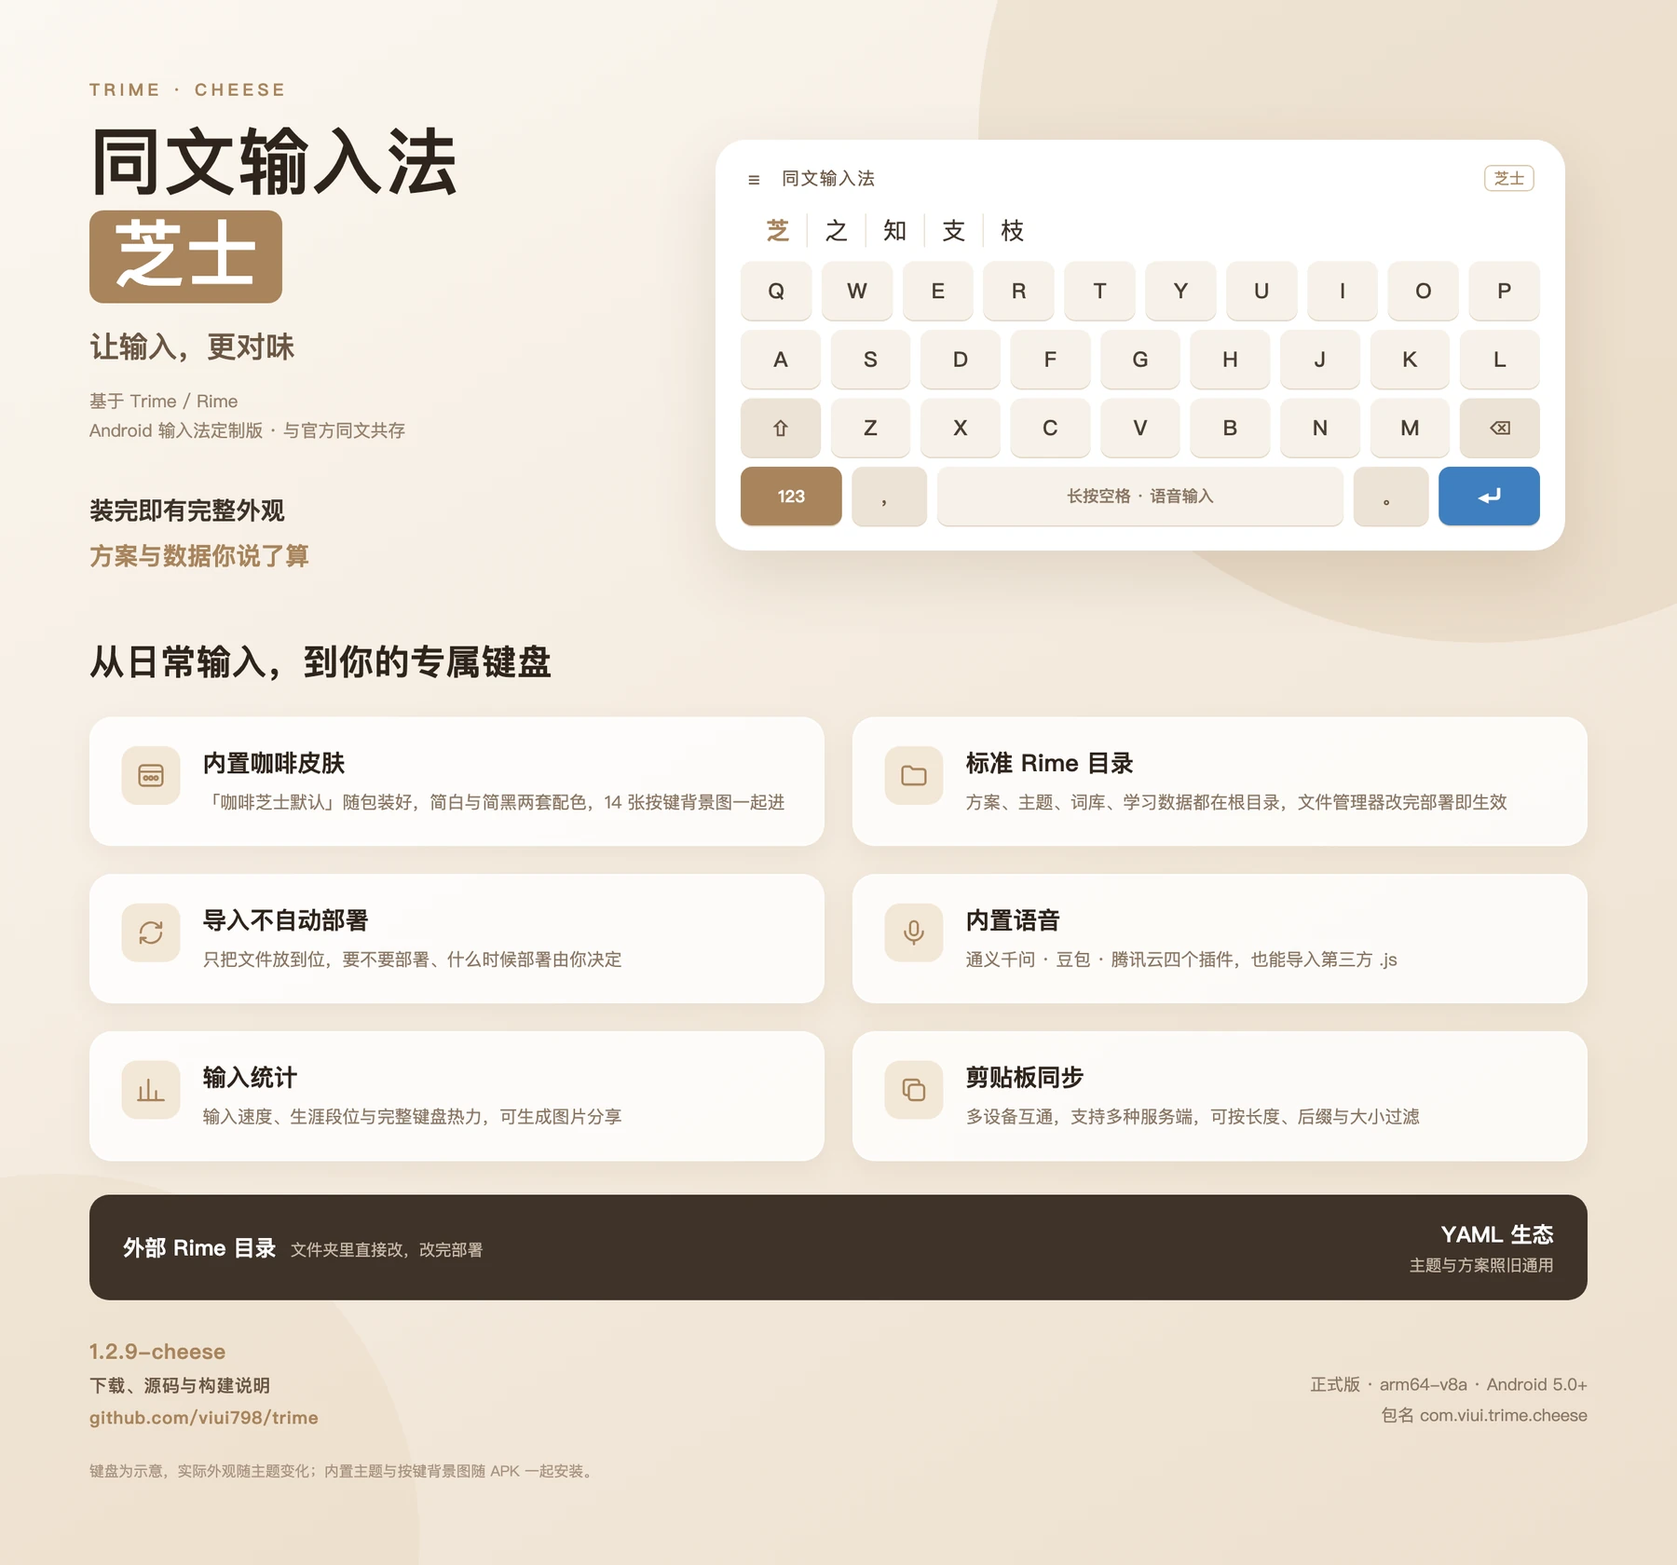
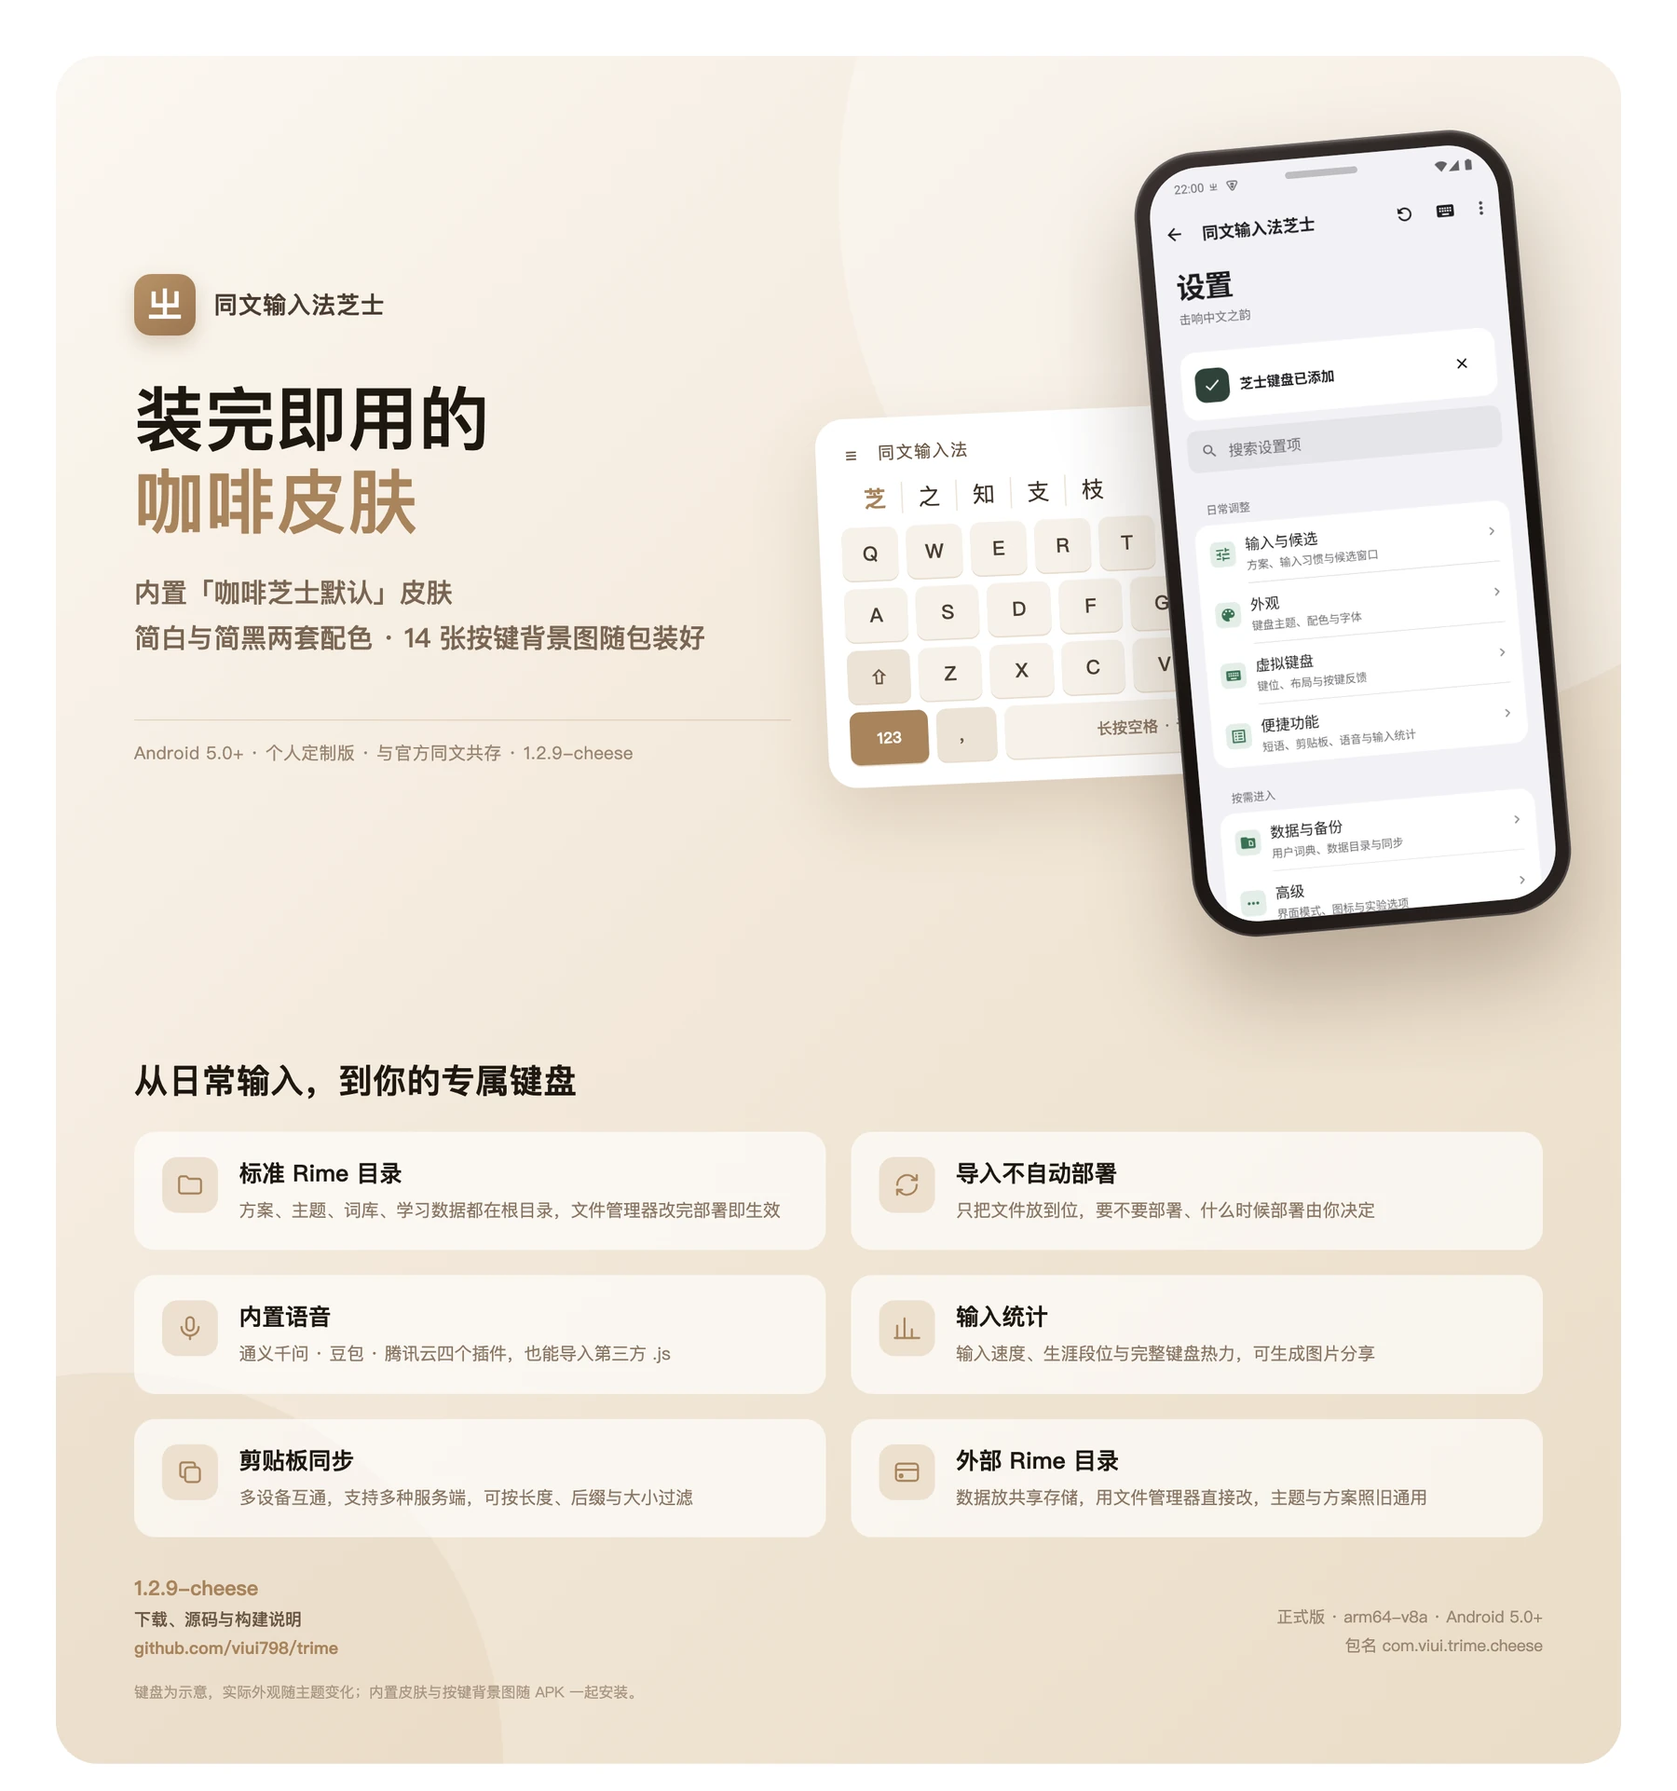
docs(readme): 首图改为带手机样机的海报，排版对齐参考图
结构照参考图重排：整块大圆角卡片（浅咖啡渐变）+ 左文右设备 + 下方功能卡片。

- 左栏：㞢 方形标 + 产品名 → 两行大标题「装完即用的 / 咖啡皮肤」→
  两行副标题（皮肤名 + 两套配色 + 14 张背景图）→ 细分隔线 + 环境小字
- 右栏：键盘示意卡在下、手机样机（home.png 真截图）在上，手机压在键盘右侧
  形成叠加层次；样机为纯 CSS 深色边框 + 高光 + 投影，旋转 -5°
- 六张功能卡片改为更轻的样式（半透明白、无描边、淡色图标底）
- 配色沿用咖啡系 #A8845C / #33291F，标题用深墨 #1E1811
- 导出 hero.webp 1800×1922（140 KB）

渲染方式：headless Chrome 截图（--no-sandbox 必须带），PIL 自动裁掉底部空白。

diff --git a/docs/images/hero.html b/docs/images/hero.html
@@ -5,143 +5,177 @@
 <style>
   * { margin: 0; padding: 0; box-sizing: border-box; }
   body {
-    width: 1200px; height: 1120px;
+    width: 1200px;
     font-family: -apple-system, "PingFang SC", "Hiragino Sans GB", "Microsoft YaHei", sans-serif;
-    background: linear-gradient(150deg, #FBF7F1 0%, #F3E9DC 55%, #EDDFCE 100%);
-    position: relative; overflow: hidden;
+    background: #FFFFFF;
+    padding: 40px;
   }
-  .blob-a {
-    position: absolute; width: 720px; height: 720px; border-radius: 50%;
-    background: rgba(214, 189, 158, 0.28); right: -220px; top: -260px;
+  .stage {
+    position: relative; width: 1120px; border-radius: 30px; overflow: hidden;
+    background: linear-gradient(135deg, #FBF7F1 0%, #F2E7D8 50%, #EADCC7 100%);
+    padding: 52px 56px 44px;
   }
-  .blob-b {
-    position: absolute; width: 520px; height: 520px; border-radius: 50%;
-    background: rgba(226, 205, 178, 0.22); left: -220px; bottom: -240px;
+  .stage .blob-a {
+    position: absolute; width: 760px; height: 760px; border-radius: 50%;
+    background: rgba(255,255,255,0.34); right: -200px; top: -280px;
   }
-  .wrap { position: relative; padding: 56px 64px 0; }
+  .stage .blob-b {
+    position: absolute; width: 560px; height: 560px; border-radius: 50%;
+    background: rgba(200,170,135,0.13); left: -240px; bottom: -280px;
+  }
 
-  .tag { font-size: 12px; letter-spacing: 3px; color: #A8845C; font-weight: 600; }
-  h1 { font-size: 52px; line-height: 1.12; color: #2E241C; font-weight: 800; margin-top: 14px; letter-spacing: 1px; }
-  .brand {
-    display: inline-block; background: #A8845C; color: #fff;
-    padding: 2px 16px 6px; border-radius: 10px; margin-top: 6px;
-  }
-  .lead { font-size: 21px; color: #6B5744; margin-top: 16px; font-weight: 500; }
-  .meta { font-size: 12.5px; color: #96826E; margin-top: 14px; line-height: 1.7; }
-  .slogans { margin-top: 34px; }
-  .slogans div { font-size: 17.5px; font-weight: 700; color: #3E332A; margin-top: 8px; }
-  .slogans div + div { color: #A8845C; }
+  /* 顶部：左文右设备 */
+  .hero { position: relative; display: flex; }
+  .copy { width: 470px; padding-top: 104px; position: relative; z-index: 3; }
 
-  /* 键盘示意 */
-  .kb-card {
-    position: absolute; left: 512px; top: 100px; width: 608px;
-    background: #fff; border-radius: 22px; padding: 16px 18px 18px;
-    box-shadow: 0 18px 44px rgba(120, 92, 62, 0.16), 0 2px 0 rgba(255,255,255,0.8) inset;
-  }
-  .kb-bar { display: flex; align-items: center; justify-content: space-between; padding: 2px 4px 12px; }
-  .kb-bar .t { font-size: 12.5px; color: #6B5744; letter-spacing: 1px; }
-  .kb-bar .badge { font-size: 11px; color: #A8845C; border: 1px solid #DFCBAF; border-radius: 5px; padding: 1px 6px; }
-  .row { display: flex; gap: 7px; margin-bottom: 7px; }
-  .key {
-    flex: 1; height: 42px; border-radius: 8px; background: #F6F1E9;
+  .brandline { display: flex; align-items: center; gap: 13px; }
+  .logo {
+    width: 44px; height: 44px; border-radius: 12px;
+    background: linear-gradient(140deg, #B89368, #9A7550);
     display: flex; align-items: center; justify-content: center;
-    font-size: 15px; color: #4A3E33; font-weight: 500;
-    box-shadow: 0 1px 0 #E4D8C7;
+    color: #fff; font-size: 25px; font-weight: 700;
+    box-shadow: 0 6px 14px rgba(140, 108, 72, 0.28);
   }
-  .key.fn { background: #EDE3D6; font-size: 13px; color: #6B5744; }
-  .key.num { flex: 1.35; background: #A8845C; color: #fff; font-size: 12px; font-weight: 600; }
-  .key.space { flex: 5.4; font-size: 11.5px; color: #8A7765; }
-  .key.enter { flex: 1.35; background: #3F7FBF; color: #fff; }
-  .cands { display: flex; gap: 0; padding: 4px 6px 10px; font-size: 17px; color: #3E332A; }
-  .cands span { padding: 0 12px; border-right: 1px solid #EEE4D6; }
+  .brandline .nm { font-size: 17px; font-weight: 600; color: #4A3D31; letter-spacing: 0.5px; }
+
+  h1 { font-size: 50px; line-height: 1.18; color: #1E1811; font-weight: 800; margin-top: 30px; letter-spacing: 1px; }
+  h1 em { font-style: normal; color: #A8845C; }
+
+  .sub { font-size: 19px; color: #7A6653; margin-top: 20px; line-height: 1.7; font-weight: 500; }
+
+  .rule { width: 100%; height: 1px; background: rgba(160, 132, 100, 0.22); margin-top: 42px; }
+  .meta { font-size: 12.5px; color: #9A8672; margin-top: 14px; letter-spacing: 0.3px; }
+
+  /* 右侧设备 */
+  .devices { position: relative; flex: 1; height: 646px; }
+
+  .kb-card {
+    position: absolute; left: 22px; top: 198px; width: 486px;
+    background: #fff; border-radius: 20px; padding: 14px 16px 16px;
+    box-shadow: 0 22px 48px rgba(120, 92, 62, 0.18);
+    transform: rotate(-2.5deg);
+    z-index: 1;
+  }
+  .kb-bar { display: flex; align-items: center; justify-content: space-between; padding: 2px 4px 10px; }
+  .kb-bar .t { font-size: 12px; color: #6B5744; letter-spacing: 1px; }
+  .kb-bar .badge { font-size: 10.5px; color: #A8845C; border: 1px solid #DFCBAF; border-radius: 5px; padding: 1px 6px; }
+  .cands { display: flex; padding: 2px 6px 9px; font-size: 16px; color: #3E332A; }
+  .cands span { padding: 0 11px; border-right: 1px solid #EEE4D6; }
   .cands span:last-child { border-right: none; }
   .cands span.on { color: #A8845C; font-weight: 700; }
+  .row { display: flex; gap: 6px; margin-bottom: 6px; }
+  .key {
+    flex: 1; height: 38px; border-radius: 7px; background: #F6F1E9;
+    display: flex; align-items: center; justify-content: center;
+    font-size: 14px; color: #4A3E33; font-weight: 500; box-shadow: 0 1px 0 #E7DBCB;
+  }
+  .key.fn { background: #EDE3D6; font-size: 12px; color: #6B5744; }
+  .key.num { flex: 1.3; background: #A8845C; color: #fff; font-size: 11px; font-weight: 600; }
+  .key.space { flex: 5.4; font-size: 11px; color: #8A7765; }
+  .key.enter { flex: 1.3; background: #3F7FBF; color: #fff; }
 
-  .section-title { font-size: 25px; font-weight: 800; color: #2E241C; margin-top: 46px; letter-spacing: 0.5px; }
+  /* 手机样机 */
+  .phone {
+    position: absolute; right: 0px; top: 8px; width: 272px;
+    transform: rotate(-5deg); z-index: 4;
+  }
+  .phone .frame {
+    background: linear-gradient(150deg, #3A3230 0%, #17120F 60%, #2A2321 100%);
+    border-radius: 46px; padding: 11px;
+    box-shadow:
+      0 40px 70px rgba(78, 56, 36, 0.34),
+      0 0 0 1.5px rgba(255,255,255,0.14) inset,
+      0 2px 3px rgba(255,255,255,0.22) inset;
+  }
+  .phone .screen {
+    border-radius: 36px; overflow: hidden; background: #fff; position: relative;
+    box-shadow: 0 0 0 1px rgba(0,0,0,0.5) inset;
+  }
+  .phone .screen img { width: 100%; display: block; }
+  .phone .notch {
+    position: absolute; left: 50%; transform: translateX(-50%); top: 9px;
+    width: 52px; height: 5px; border-radius: 3px; background: rgba(0,0,0,0.22);
+  }
 
-  .grid { display: grid; grid-template-columns: 1fr 1fr; gap: 20px; margin-top: 22px; }
+  /* 中部 */
+  .section-title { position: relative; font-size: 24px; font-weight: 800; color: #1E1811; margin-top: 18px; letter-spacing: 0.4px; z-index: 2; }
+
+  .grid { position: relative; display: grid; grid-template-columns: 1fr 1fr; gap: 18px; margin-top: 20px; z-index: 2; }
   .card {
-    background: rgba(255,255,255,0.82); border-radius: 16px; padding: 20px 22px;
-    box-shadow: 0 6px 18px rgba(120, 92, 62, 0.07);
-    display: flex; gap: 16px; align-items: flex-start;
-    border: 1px solid rgba(255,255,255,0.9);
+    background: rgba(255,255,255,0.66); border-radius: 15px; padding: 18px 20px;
+    display: flex; gap: 15px; align-items: flex-start;
   }
   .ico {
-    width: 42px; height: 42px; border-radius: 11px; flex: none;
-    background: #F3E7D7; display: flex; align-items: center; justify-content: center;
+    width: 40px; height: 40px; border-radius: 11px; flex: none;
+    background: rgba(232, 216, 196, 0.75); display: flex; align-items: center; justify-content: center;
   }
-  .ico svg { width: 22px; height: 22px; stroke: #A8845C; fill: none; stroke-width: 1.7; stroke-linecap: round; stroke-linejoin: round; }
-  .card h3 { font-size: 17px; color: #2E241C; font-weight: 700; }
-  .card p { font-size: 12.5px; color: #8A7765; margin-top: 6px; line-height: 1.65; }
+  .ico svg { width: 21px; height: 21px; stroke: #A8845C; fill: none; stroke-width: 1.7; stroke-linecap: round; stroke-linejoin: round; }
+  .card h3 { font-size: 16.5px; color: #1E1811; font-weight: 700; }
+  .card p { font-size: 12.5px; color: #8A7765; margin-top: 5px; line-height: 1.65; }
 
-  .bar {
-    margin-top: 24px; background: #3E332A; border-radius: 14px;
-    padding: 17px 24px; display: flex; align-items: center; justify-content: space-between;
-    color: #fff;
-  }
-  .bar .l b { font-size: 15.5px; font-weight: 700; }
-  .bar .l span { font-size: 11.5px; color: #C8B8A6; margin-left: 10px; }
-  .bar .r { text-align: right; }
-  .bar .r b { font-size: 15.5px; font-weight: 700; }
-  .bar .r span { display: block; font-size: 11.5px; color: #C8B8A6; margin-top: 3px; }
-
-  .foot { margin-top: 26px; display: flex; align-items: flex-end; justify-content: space-between; }
-  .foot .v { font-size: 15px; color: #A8845C; font-weight: 700; letter-spacing: 0.5px; }
-  .foot .v small { display: block; font-size: 12.5px; color: #6B5744; font-weight: 500; margin-top: 5px; }
-  .foot .url { font-size: 13.5px; color: #A8845C; font-weight: 600; }
-  .foot .rt { text-align: right; font-size: 12px; color: #8A7765; line-height: 1.8; }
-  .note { margin-top: 22px; font-size: 10.5px; color: #A99481; }
+  .foot { position: relative; margin-top: 26px; display: flex; align-items: flex-end; justify-content: space-between; z-index: 2; }
+  .foot .v { font-size: 14.5px; color: #A8845C; font-weight: 700; }
+  .foot .v small { display: block; font-size: 12px; color: #6B5744; font-weight: 500; margin-top: 4px; }
+  .foot .rt { text-align: right; font-size: 11.5px; color: #9A8672; line-height: 1.75; }
+  .note { position: relative; margin-top: 16px; font-size: 10.5px; color: #AB9783; z-index: 2; }
 </style>
 </head>
 <body>
-  <div class="blob-a"></div>
-  <div class="blob-b"></div>
+  <div class="stage">
+    <div class="blob-a"></div>
+    <div class="blob-b"></div>
 
-  <div class="wrap">
-    <div class="tag">TRIME · CHEESE</div>
-    <h1>同文输入法<br><span class="brand">芝士</span></h1>
-    <div class="lead">让输入，更对味</div>
-    <div class="meta">基于 Trime / Rime<br>Android 输入法定制版 · 与官方同文共存</div>
+    <div class="hero">
+      <div class="copy">
+        <div class="brandline">
+          <div class="logo">㞢</div>
+          <div class="nm">同文输入法芝士</div>
+        </div>
+        <h1>装完即用的<br><em>咖啡皮肤</em></h1>
+        <div class="sub">内置「咖啡芝士默认」皮肤<br>简白与简黑两套配色 · 14 张按键背景图随包装好</div>
+        <div class="rule"></div>
+        <div class="meta">Android 5.0+ · 个人定制版 · 与官方同文共存 · 1.2.9-cheese</div>
+      </div>
 
-    <div class="slogans">
-      <div>装完即有完整外观</div>
-      <div>方案与数据你说了算</div>
-    </div>
+      <div class="devices">
+        <div class="kb-card">
+          <div class="kb-bar">
+            <div class="t">☰　同文输入法</div>
+            <div class="badge">芝士</div>
+          </div>
+          <div class="cands"><span class="on">芝</span><span>之</span><span>知</span><span>支</span><span>枝</span></div>
+          <div class="row">
+            <div class="key">Q</div><div class="key">W</div><div class="key">E</div><div class="key">R</div><div class="key">T</div><div class="key">Y</div><div class="key">U</div><div class="key">I</div><div class="key">O</div><div class="key">P</div>
+          </div>
+          <div class="row">
+            <div class="key">A</div><div class="key">S</div><div class="key">D</div><div class="key">F</div><div class="key">G</div><div class="key">H</div><div class="key">J</div><div class="key">K</div><div class="key">L</div>
+          </div>
+          <div class="row">
+            <div class="key fn">⇧</div><div class="key">Z</div><div class="key">X</div><div class="key">C</div><div class="key">V</div><div class="key">B</div><div class="key">N</div><div class="key">M</div><div class="key fn">⌫</div>
+          </div>
+          <div class="row" style="margin-bottom:0">
+            <div class="key num">123</div>
+            <div class="key fn">，</div>
+            <div class="key space">长按空格 · 语音输入</div>
+            <div class="key fn">。</div>
+            <div class="key enter">⏎</div>
+          </div>
+        </div>
 
-    <div class="kb-card">
-      <div class="kb-bar">
-        <div class="t">☰　同文输入法</div>
-        <div class="badge">芝士</div>
-      </div>
-      <div class="cands"><span class="on">芝</span><span>之</span><span>知</span><span>支</span><span>枝</span></div>
-      <div class="row">
-        <div class="key">Q</div><div class="key">W</div><div class="key">E</div><div class="key">R</div><div class="key">T</div><div class="key">Y</div><div class="key">U</div><div class="key">I</div><div class="key">O</div><div class="key">P</div>
-      </div>
-      <div class="row">
-        <div class="key">A</div><div class="key">S</div><div class="key">D</div><div class="key">F</div><div class="key">G</div><div class="key">H</div><div class="key">J</div><div class="key">K</div><div class="key">L</div>
-      </div>
-      <div class="row">
-        <div class="key fn">⇧</div><div class="key">Z</div><div class="key">X</div><div class="key">C</div><div class="key">V</div><div class="key">B</div><div class="key">N</div><div class="key">M</div><div class="key fn">⌫</div>
-      </div>
-      <div class="row" style="margin-bottom:0">
-        <div class="key num">123</div>
-        <div class="key fn">，</div>
-        <div class="key space">长按空格 · 语音输入</div>
-        <div class="key fn">。</div>
-        <div class="key enter">⏎</div>
+        <div class="phone">
+          <div class="frame">
+            <div class="screen">
+              <div class="notch"></div>
+              <img src="home.png" alt="同文输入法芝士设置首页">
+            </div>
+          </div>
+        </div>
       </div>
     </div>
 
     <div class="section-title">从日常输入，到你的专属键盘</div>
 
     <div class="grid">
-      <div class="card">
-        <div class="ico"><svg viewBox="0 0 24 24"><rect x="3" y="4" width="18" height="16" rx="3"/><path d="M3 9h18"/><circle cx="8" cy="14" r="1.4"/><circle cx="12" cy="14" r="1.4"/><circle cx="16" cy="14" r="1.4"/></svg></div>
-        <div>
-          <h3>内置咖啡皮肤</h3>
-          <p>「咖啡芝士默认」随包装好，简白与简黑两套配色，14 张按键背景图一起进</p>
-        </div>
-      </div>
       <div class="card">
         <div class="ico"><svg viewBox="0 0 24 24"><path d="M3 7a2 2 0 0 1 2-2h4l2 2h8a2 2 0 0 1 2 2v8a2 2 0 0 1-2 2H5a2 2 0 0 1-2-2z"/></svg></div>
         <div>
@@ -177,24 +211,24 @@
           <p>多设备互通，支持多种服务端，可按长度、后缀与大小过滤</p>
         </div>
       </div>
-    </div>
-
-    <div class="bar">
-      <div class="l"><b>外部 Rime 目录</b><span>文件夹里直接改，改完部署</span></div>
-      <div class="r"><b>YAML 生态</b><span>主题与方案照旧通用</span></div>
+      <div class="card">
+        <div class="ico"><svg viewBox="0 0 24 24"><rect x="3" y="5" width="18" height="14" rx="2.5"/><path d="M3 10h18"/><circle cx="7.2" cy="15" r="1.1"/></svg></div>
+        <div>
+          <h3>外部 Rime 目录</h3>
+          <p>数据放共享存储，用文件管理器直接改，主题与方案照旧通用</p>
+        </div>
+      </div>
     </div>
 
     <div class="foot">
-      <div>
-        <div class="v">1.2.9-cheese
-          <small>下载、源码与构建说明</small>
-          <small style="color:#A8845C;font-weight:600">github.com/viui798/trime</small>
-        </div>
+      <div class="v">1.2.9-cheese
+        <small>下载、源码与构建说明</small>
+        <small style="color:#A8845C;font-weight:600">github.com/viui798/trime</small>
       </div>
       <div class="rt">正式版 · arm64-v8a · Android 5.0+<br>包名 com.viui.trime.cheese</div>
     </div>
 
-    <div class="note">键盘为示意，实际外观随主题变化；内置主题与按键背景图随 APK 一起安装。</div>
+    <div class="note">键盘为示意，实际外观随主题变化；内置皮肤与按键背景图随 APK 一起安装。</div>
   </div>
 </body>
 </html>
